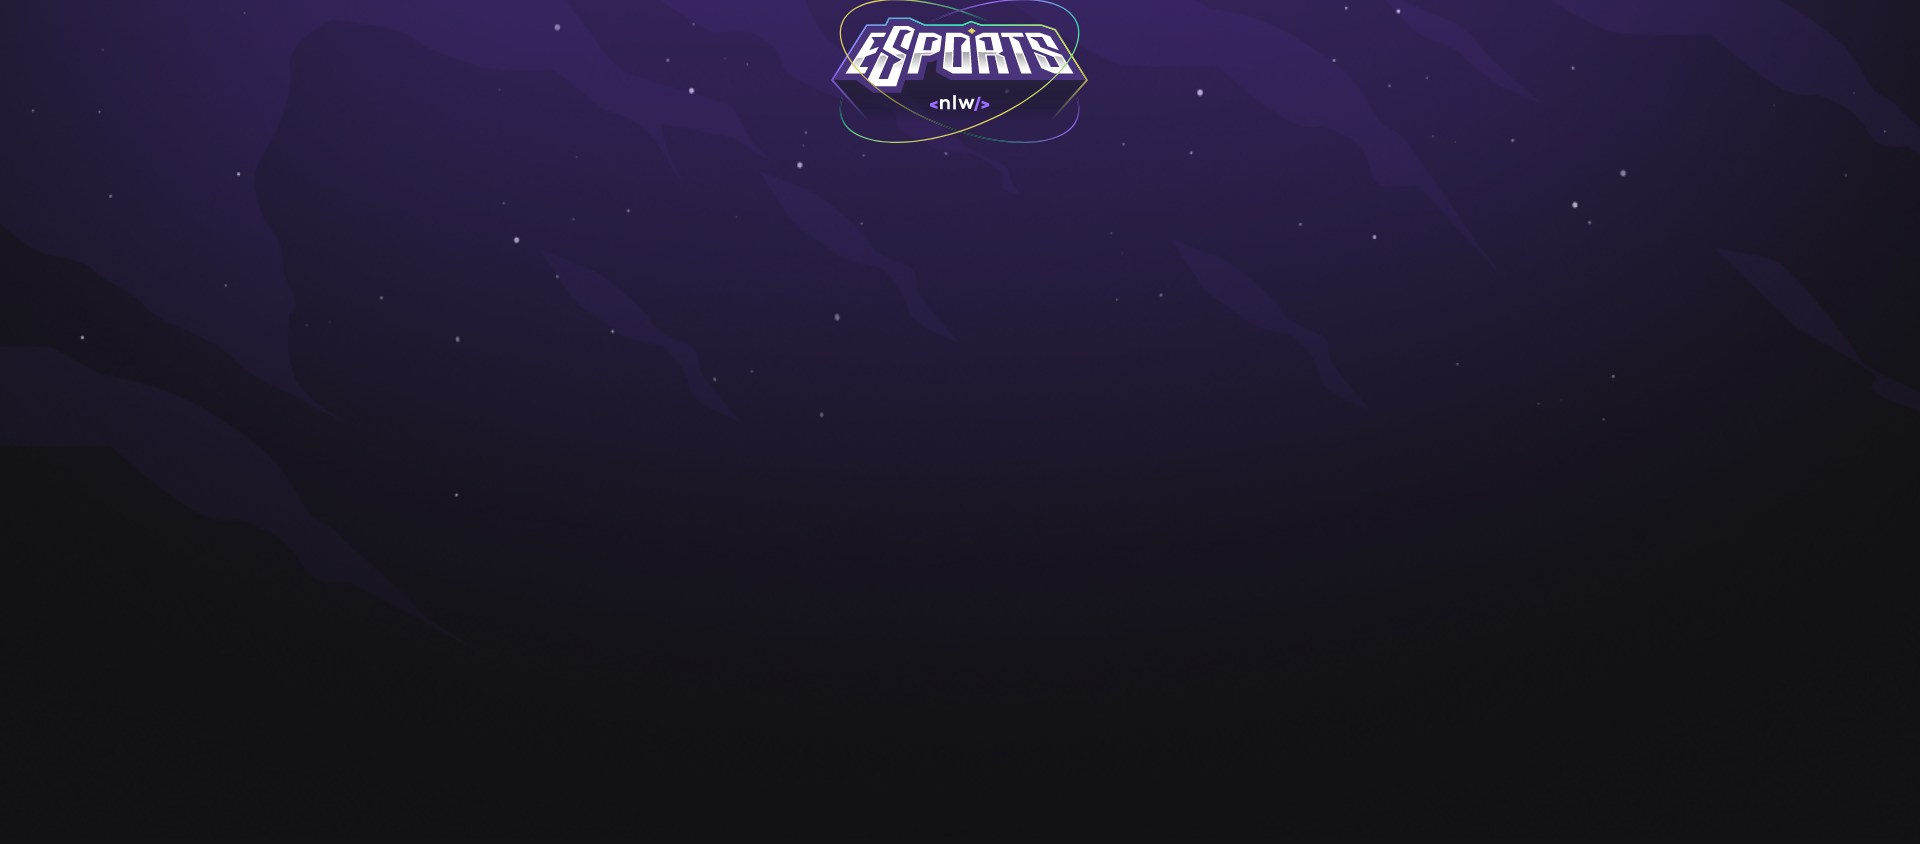
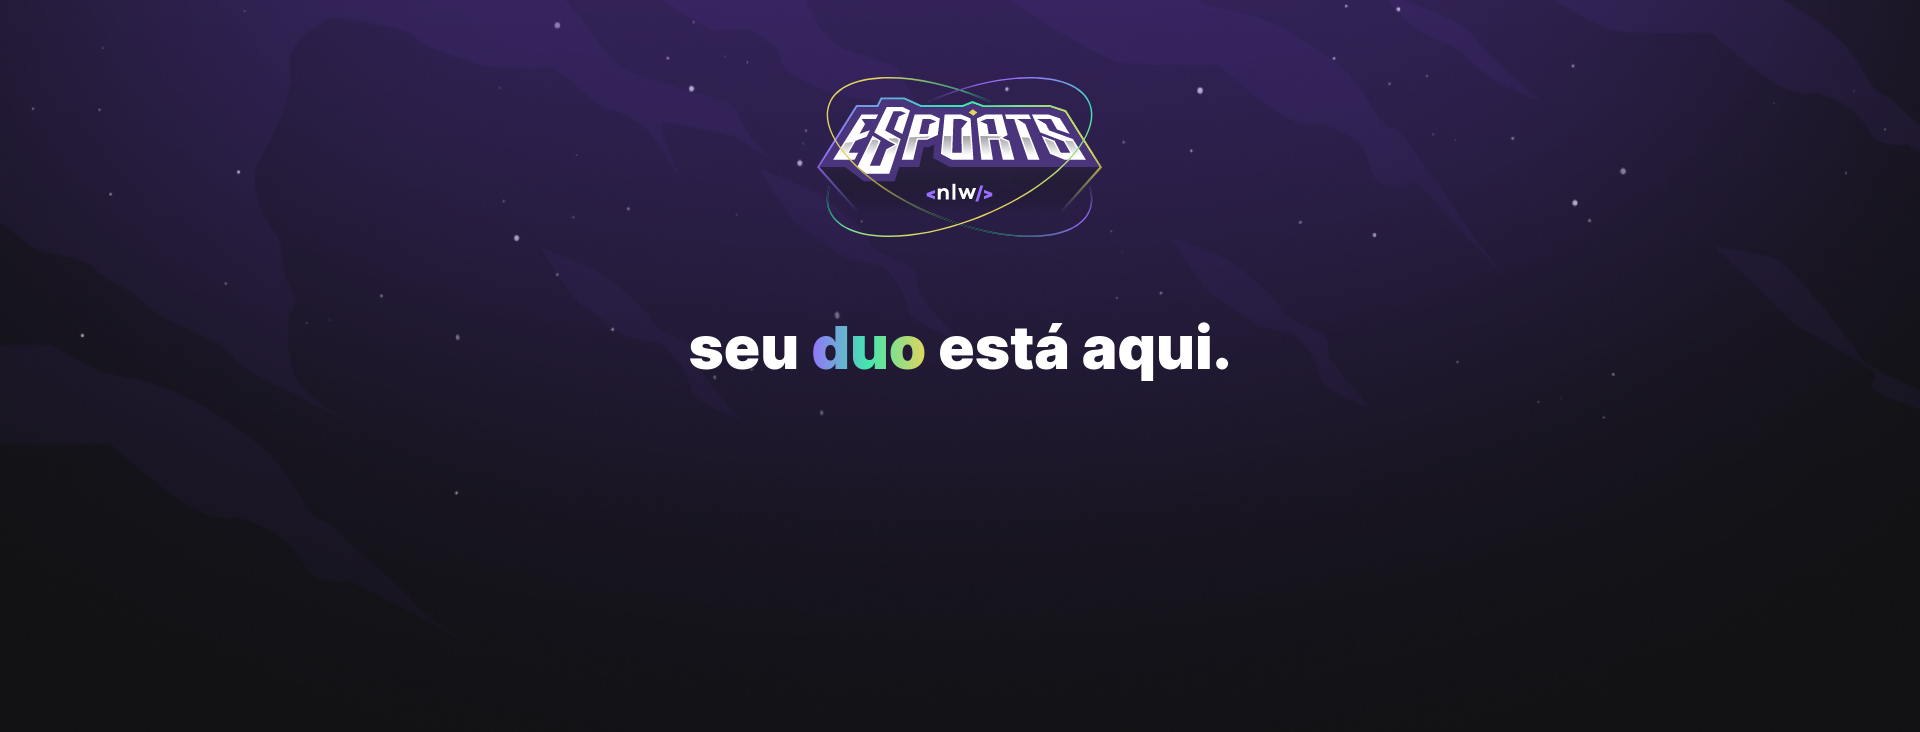
new Preview + [add]text with span

Changed region(s): [[0.4062, 0.0, 0.5938, 0.3306], [0.3438, 0.4508, 0.6562, 0.5109]]

diff --git a/src/App.tsx b/src/App.tsx
@@ -4,9 +4,13 @@ import logoImg from "./assets/nlw-esports-logo.svg";
 
 function App(){
     return(
-        <div className="max-w-[1344px] mx-auto flex flex-col items-center">
+        <div className="max-w-[1344px] mx-auto flex flex-col items-center my-20">
             <img src={logoImg} alt="" />
+            <h1 className="text-6xl text-white font-black mt-20">
+                seu <span className="text-transparent bg-nlw-gradient bg-clip-text">duo</span> está aqui.
+            </h1>
         </div>
+
     )
 }
 
